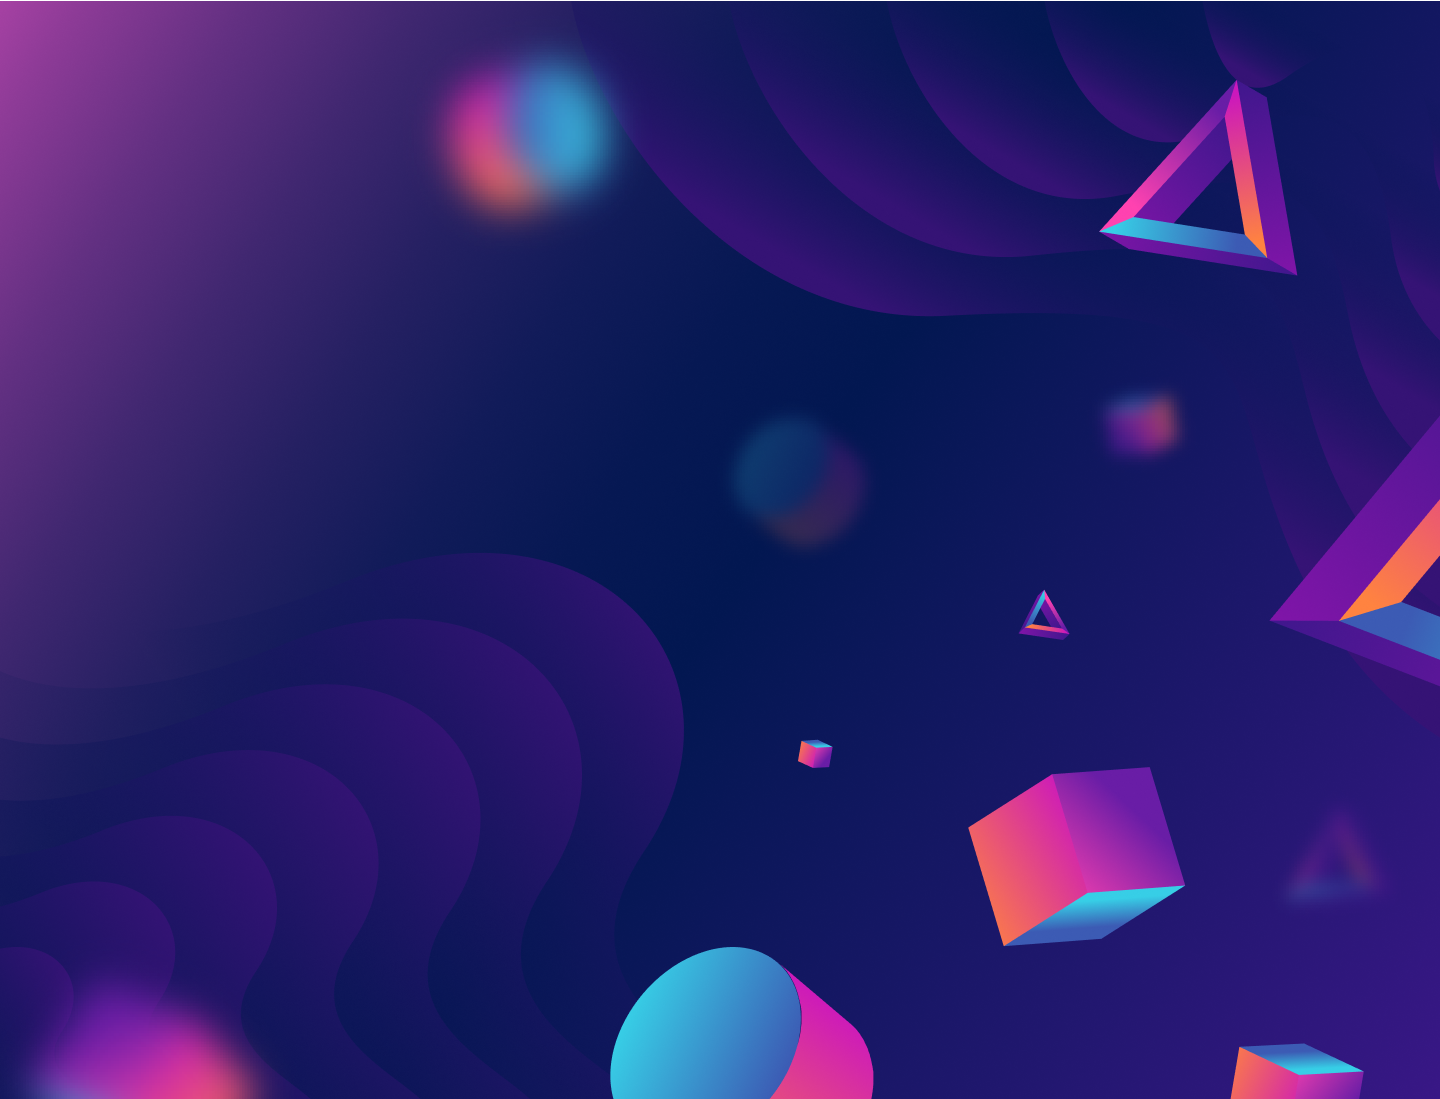
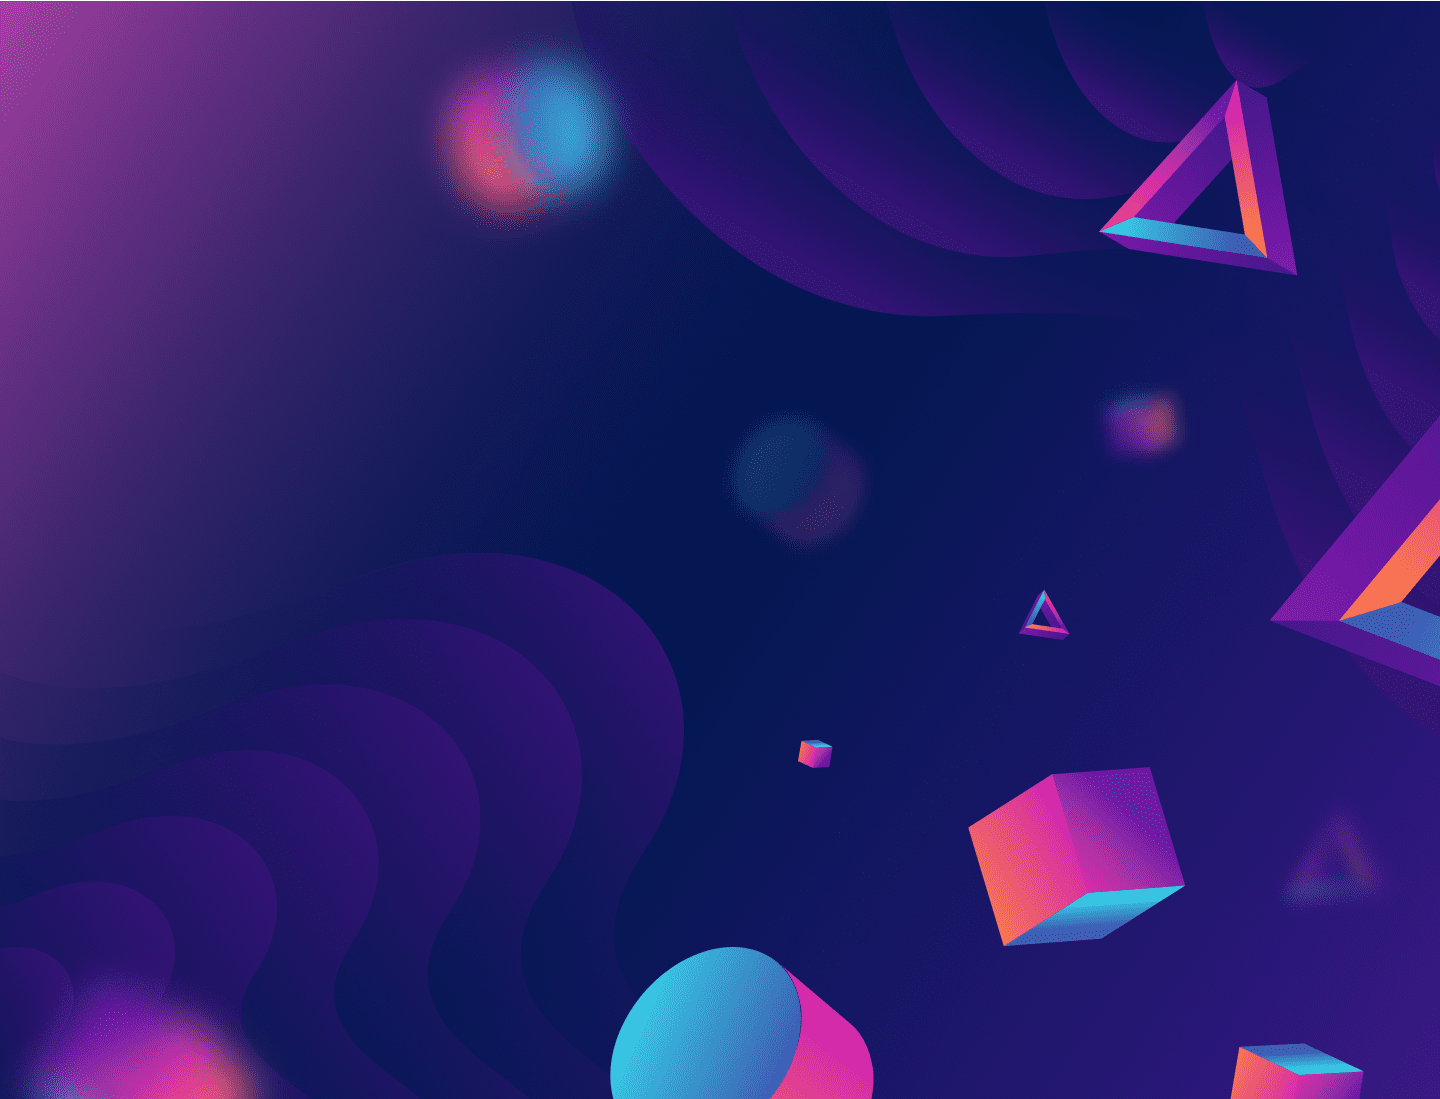
Refactor: TD-48 Routing flow updated
Implemented:
- Added HOC component for routing of auth routes

Because:
- There was flicker while changing pages

diff --git a/src/views/auth/UserType.js b/src/views/auth/UserType.js
@@ -1,68 +1,44 @@
 // ** React Imports
-import * as yup from "yup";
-import { yupResolver } from "@hookform/resolvers/yup";
+import { Link } from 'react-router-dom';
 
 // ** Icons Imports
 
-// ** Custom Components
-import { OnBoardWrap, UserTypeCard } from "./style";
-
 // ** Reactstrap Imports
-import { CardTitle, CardText } from "reactstrap";
+import { CardTitle, CardText } from 'reactstrap';
 
 // ** Illustrations Imports
-import Logo from "@src/assets/images/ic_trumio_logo.png";
+import Logo from '@src/assets/images/ic_trumio_logo.png';
+
+// ** Custom Components
+import { OnBoardWrap, UserTypeCard } from './style';
+
 // ** Styles
-import "@styles/react/pages/page-authentication.scss";
-import { useForm } from "react-hook-form";
-import { Link } from "react-router-dom";
+import '@styles/react/pages/page-authentication.scss';
 
-const UserType = () => {
-  const CreateOfferSchema = yup.object().shape({
-    brandName: yup.string().required("Brand Name is required"),
-    offerName: yup.string().required("Title is required"),
-    description: yup.string().required("Description is required"),
-    offerURL: yup.string().url("URL must be valid").required("URL is required"),
-    startDate: yup.date().required("Start Date is required"),
-    endDate: yup.date(),
-    uploadKey: yup.string(),
-  });
-
-  const { register, errors, handleSubmit, control, setValue } = useForm({
-    mode: "onChange",
-    resolver: yupResolver(CreateOfferSchema),
-  });
-  return (
-    <OnBoardWrap>
-      <div className="card-onboard">
-        <img alt="logo" src={Logo} className="card-logo" />
-        <CardTitle tag="h2" className="card-title-onboard">
-          Welcome! 👋🏻
-        </CardTitle>
-        <CardText className="mb-3 card-text">
-          Please select a user type
-        </CardText>
-        <Link to="/register">
-          <UserTypeCard className="mt-3 text-center">
-            <CardTitle color="primary" tag="h2" className="select-card-title">
-              Talent
-            </CardTitle>
-            <CardText className="card-text">
-              Find clients and projects.
-            </CardText>
-          </UserTypeCard>
-        </Link>
-        <UserTypeCard className="text-center">
-          <CardTitle color="blue" tag="h2" className="select-card-title">
-            Client
+const UserType = () => (
+  <OnBoardWrap>
+    <div className="card-onboard">
+      <img alt="logo" src={Logo} className="card-logo" />
+      <CardTitle tag="h2" className="card-title-onboard">
+        Welcome! 👋🏻
+      </CardTitle>
+      <CardText className="mb-3 card-text">Please select a user type</CardText>
+      <Link to="/auth/register">
+        <UserTypeCard className="mt-3 text-center">
+          <CardTitle color="primary" tag="h2" className="select-card-title">
+            Talent
           </CardTitle>
-          <CardText className="card-text">
-            Find talent or project teams and hire for projects
-          </CardText>
+          <CardText className="card-text">Find clients and projects.</CardText>
         </UserTypeCard>
-      </div>
-    </OnBoardWrap>
-  );
-};
+      </Link>
+      <UserTypeCard className="text-center">
+        <CardTitle color="blue" tag="h2" className="select-card-title">
+          Client
+        </CardTitle>
+        <CardText className="card-text">Find talent or project teams and hire for projects</CardText>
+      </UserTypeCard>
+    </div>
+  </OnBoardWrap>
+);
 
 export default UserType;

diff --git a/src/views/auth/index.js b/src/views/auth/index.js
@@ -1,0 +1,78 @@
+import React, { Suspense, lazy } from 'react';
+import { Route, Routes } from 'react-router-dom';
+import Spinner from '../../@core/components/spinner/Fallback-spinner';
+import { OnBoardWrap } from './style';
+
+const Login = lazy(() => import('./Login'));
+const Register = lazy(() => import('./RegisterEmail'));
+const ForgotPassword = lazy(() => import('./ForgotPassword'));
+const UserType = lazy(() => import('./UserType'));
+const VerifyEmail = lazy(() => import('./EmailVerify'));
+const VerifyPhone = lazy(() => import('./PhoneVerify'));
+const SetPassword = lazy(() => import('./SetPassword'));
+const RegisterPhone = lazy(() => import('./RegisterPhone'));
+const SetNewPassword = lazy(() => import('./SetNewPassword'));
+const ForgotPasswordVerification = lazy(() => import('./ForgotPasswordVerification'));
+
+const AuthRoute = () => {
+  const routes = [
+    {
+      path: '/login',
+      element: <Login />,
+    },
+    {
+      path: '/auth/*',
+      element: <AuthRoute />,
+    },
+    {
+      path: '/register',
+      element: <Register />,
+    },
+    {
+      path: '/register-phone',
+      element: <RegisterPhone />,
+    },
+    {
+      path: '/email-verify',
+      element: <VerifyEmail />,
+    },
+    {
+      path: '/forgot-password-email-verify',
+      element: <ForgotPasswordVerification />,
+    },
+    {
+      path: '/phone-verify',
+      element: <VerifyPhone />,
+    },
+    {
+      path: '/set-password',
+      element: <SetPassword />,
+    },
+    {
+      path: '/usertype',
+      element: <UserType />,
+    },
+    {
+      path: '/forgot-password',
+      element: <ForgotPassword />,
+    },
+    {
+      path: '/set-new-password',
+      element: <SetNewPassword />,
+    },
+  ];
+  return (
+    <OnBoardWrap>
+      <Suspense fallback={<Spinner />}>
+        <Routes>
+          <Route path="/" element={<UserType />} />
+          {routes.map((route) => (
+            <Route key={route.path} path={route.path} element={route.element} />
+          ))}
+        </Routes>
+      </Suspense>
+    </OnBoardWrap>
+  );
+};
+
+export default AuthRoute;

diff --git a/src/router/routes/index.js b/src/router/routes/index.js
@@ -23,7 +23,7 @@ const getLayout = {
 const TemplateTitle = '%s - Vuexy React Admin Template';
 
 // ** Default Route
-const DefaultRoute = '/register';
+const DefaultRoute = '/auth';
 
 const Home = lazy(() => import('../../views/Home'));
 const SecondPage = lazy(() => import('../../views/SecondPage'));
@@ -41,6 +41,7 @@ const SetPassword = lazy(() => import('../../views/auth/SetPassword'));
 const RegisterPhone = lazy(() => import('../../views/auth/RegisterPhone'));
 const SetNewPassword = lazy(() => import('../../views/auth/SetNewPassword'));
 const ForgotPasswordVerification = lazy(() => import('../../views/auth/ForgotPasswordVerification'));
+const AuthRoute = lazy(() => import('../../views/auth/index'));
 
 // ** Merge Routes
 const Routes = [
@@ -64,6 +65,14 @@ const Routes = [
       layout: 'blank',
     },
   },
+  {
+    path: '/auth/*',
+    element: <AuthRoute />,
+    meta: {
+      layout: 'blank',
+    },
+  },
+
   {
     path: '/register',
     element: <Register />,

diff --git a/src/views/auth/Login.js b/src/views/auth/Login.js
@@ -104,7 +104,13 @@ const Login = () => {
 
           <div className="form-check mb-1">
             <div className="d-flex justify-content-end fw-bold">
-              <Label tag={Link} to="/forgot-password" color="primary" className="form-check-label" for="remember-me">
+              <Label
+                tag={Link}
+                to="/auth/forgot-password"
+                color="primary"
+                className="form-check-label"
+                for="remember-me"
+              >
                 <small>Forgot password?</small>
               </Label>
             </div>
@@ -124,7 +130,7 @@ const Login = () => {
           <Label>
             <small>New to Trumio?</small>
           </Label>
-          <Label tag={Link} to="/register" className="primary">
+          <Label tag={Link} to="/auth/register" className="primary">
             <small>Create an account</small>
           </Label>
         </div>

diff --git a/src/views/auth/PhoneVerify.js b/src/views/auth/PhoneVerify.js
@@ -1,7 +1,7 @@
 // ** React Imports
 import OtpInput from 'react-otp-input';
 import { useState } from 'react';
-import { useNavigate } from 'react-router-dom';
+import { Link, useNavigate } from 'react-router-dom';
 // ** Icons Imports
 import Logo from '@src/assets/images/ic_trumio_logo.png';
 
@@ -37,7 +37,7 @@ const VerifyPhone = () => {
   };
 
   const verifyOtp = () => {
-    navigate('/login');
+    navigate('/auth/login');
     setOtpError(false);
   };
 
@@ -108,7 +108,7 @@ const VerifyPhone = () => {
           <Label>
             <small>Already have an account?</small>
           </Label>
-          <Label className="primary">
+          <Label tag={Link} to="/auth/login" className="primary">
             <small>Sign in</small>
           </Label>
         </div>

diff --git a/src/views/auth/RegisterPhone.js b/src/views/auth/RegisterPhone.js
@@ -50,7 +50,7 @@ const RegisterPhone = () => {
     if (!isValidPhoneNumber(values.mobile, selectedCountry.code)) {
       setError('mobile', { type: 'custom', message: 'Invalid phone number' });
     } else {
-      navigate('/phone-verify');
+      navigate('/auth/phone-verify');
     }
   };
 
@@ -99,7 +99,7 @@ const RegisterPhone = () => {
           <Label>
             <small>Already have an account?</small>
           </Label>
-          <Label tag={Link} to="/login" className="primary">
+          <Label tag={Link} to="/auth/login" className="primary">
             <small>Sign in</small>
           </Label>
         </div>

diff --git a/src/views/auth/ForgotPassword.js b/src/views/auth/ForgotPassword.js
@@ -39,7 +39,7 @@ const RegisterEmail = () => {
   });
 
   const onSubmit = () => {
-    navigate('/forgot-password-email-verify');
+    navigate('/auth/forgot-password-email-verify');
   };
 
   const emailValue = watch('email'); // track the value of the mobile field
@@ -93,7 +93,7 @@ const RegisterEmail = () => {
           <Label>
             <small>Already have an account?</small>
           </Label>
-          <Label tag={Link} to="/login" className="primary">
+          <Label tag={Link} to="/auth/login" className="primary">
             <small>Sign in</small>
           </Label>
         </div>

diff --git a/src/views/auth/ForgotPasswordVerification.js b/src/views/auth/ForgotPasswordVerification.js
@@ -24,7 +24,7 @@ const ForgotPasswordVerification = () => {
     setOtpError(false);
   };
   const verifyOtp = () => {
-    navigate('/set-new-password');
+    navigate('/auth/set-new-password');
   };
   return (
     <OnBoardWrap>
@@ -87,7 +87,7 @@ const ForgotPasswordVerification = () => {
           <Label>
             <small>Already have an account?</small>
           </Label>
-          <Label tag={Link} to="/login" className="primary">
+          <Label tag={Link} to="/auth/login" className="primary">
             <small>Sign in</small>
           </Label>
         </div>

diff --git a/src/views/auth/RegisterEmail.js b/src/views/auth/RegisterEmail.js
@@ -43,7 +43,7 @@ const RegisterEmail = () => {
   });
 
   const onSubmit = () => {
-    navigate('/email-verify');
+    navigate('/auth/email-verify');
   };
 
   const emailValue = watch('email'); // track the value of the mobile field
@@ -126,7 +126,7 @@ const RegisterEmail = () => {
           <Label>
             <small>Already have an account?</small>
           </Label>
-          <Label tag={Link} to="/login" className="primary">
+          <Label tag={Link} to="/auth/login" className="primary">
             <small>Sign in</small>
           </Label>
         </div>

diff --git a/src/views/auth/SetPassword.js b/src/views/auth/SetPassword.js
@@ -38,7 +38,7 @@ const SetPassword = () => {
     },
   });
   const onSubmit = () => {
-    navigate('/register-phone');
+    navigate('/auth/register-phone');
   };
 
   const newPassword = watch('newPassword');
@@ -109,7 +109,7 @@ const SetPassword = () => {
           <Label>
             <small>Already have an account?</small>
           </Label>
-          <Label tag={Link} to="/login" className="primary">
+          <Label tag={Link} to="/auth/login" className="primary">
             <small>Sign in</small>
           </Label>
         </div>

diff --git a/src/views/auth/EmailVerify.js b/src/views/auth/EmailVerify.js
@@ -24,7 +24,7 @@ const VerifyEmail = () => {
     setOtpError(false);
   };
   const verifyOtp = () => {
-    navigate('/set-password');
+    navigate('/auth/set-password');
   };
   return (
     <OnBoardWrap>
@@ -87,7 +87,7 @@ const VerifyEmail = () => {
           <Label>
             <small>Already have an account?</small>
           </Label>
-          <Label tag={Link} to="/login" className="primary">
+          <Label tag={Link} to="/auth/login" className="primary">
             <small>Sign in</small>
           </Label>
         </div>

diff --git a/src/views/auth/SetNewPassword.js b/src/views/auth/SetNewPassword.js
@@ -43,7 +43,7 @@ const SetNewPassword = () => {
     },
   });
   const onSubmit = () => {
-    navigate('/login');
+    navigate('/auth/login');
   };
 
   const newPassword = watch('newPassword');
@@ -144,7 +144,7 @@ const SetNewPassword = () => {
           <Label>
             <small>Already have an account?</small>
           </Label>
-          <Label tag={Link} to="/login" className="primary">
+          <Label tag={Link} to="/auth/login" className="primary">
             <small>Sign in</small>
           </Label>
         </div>
